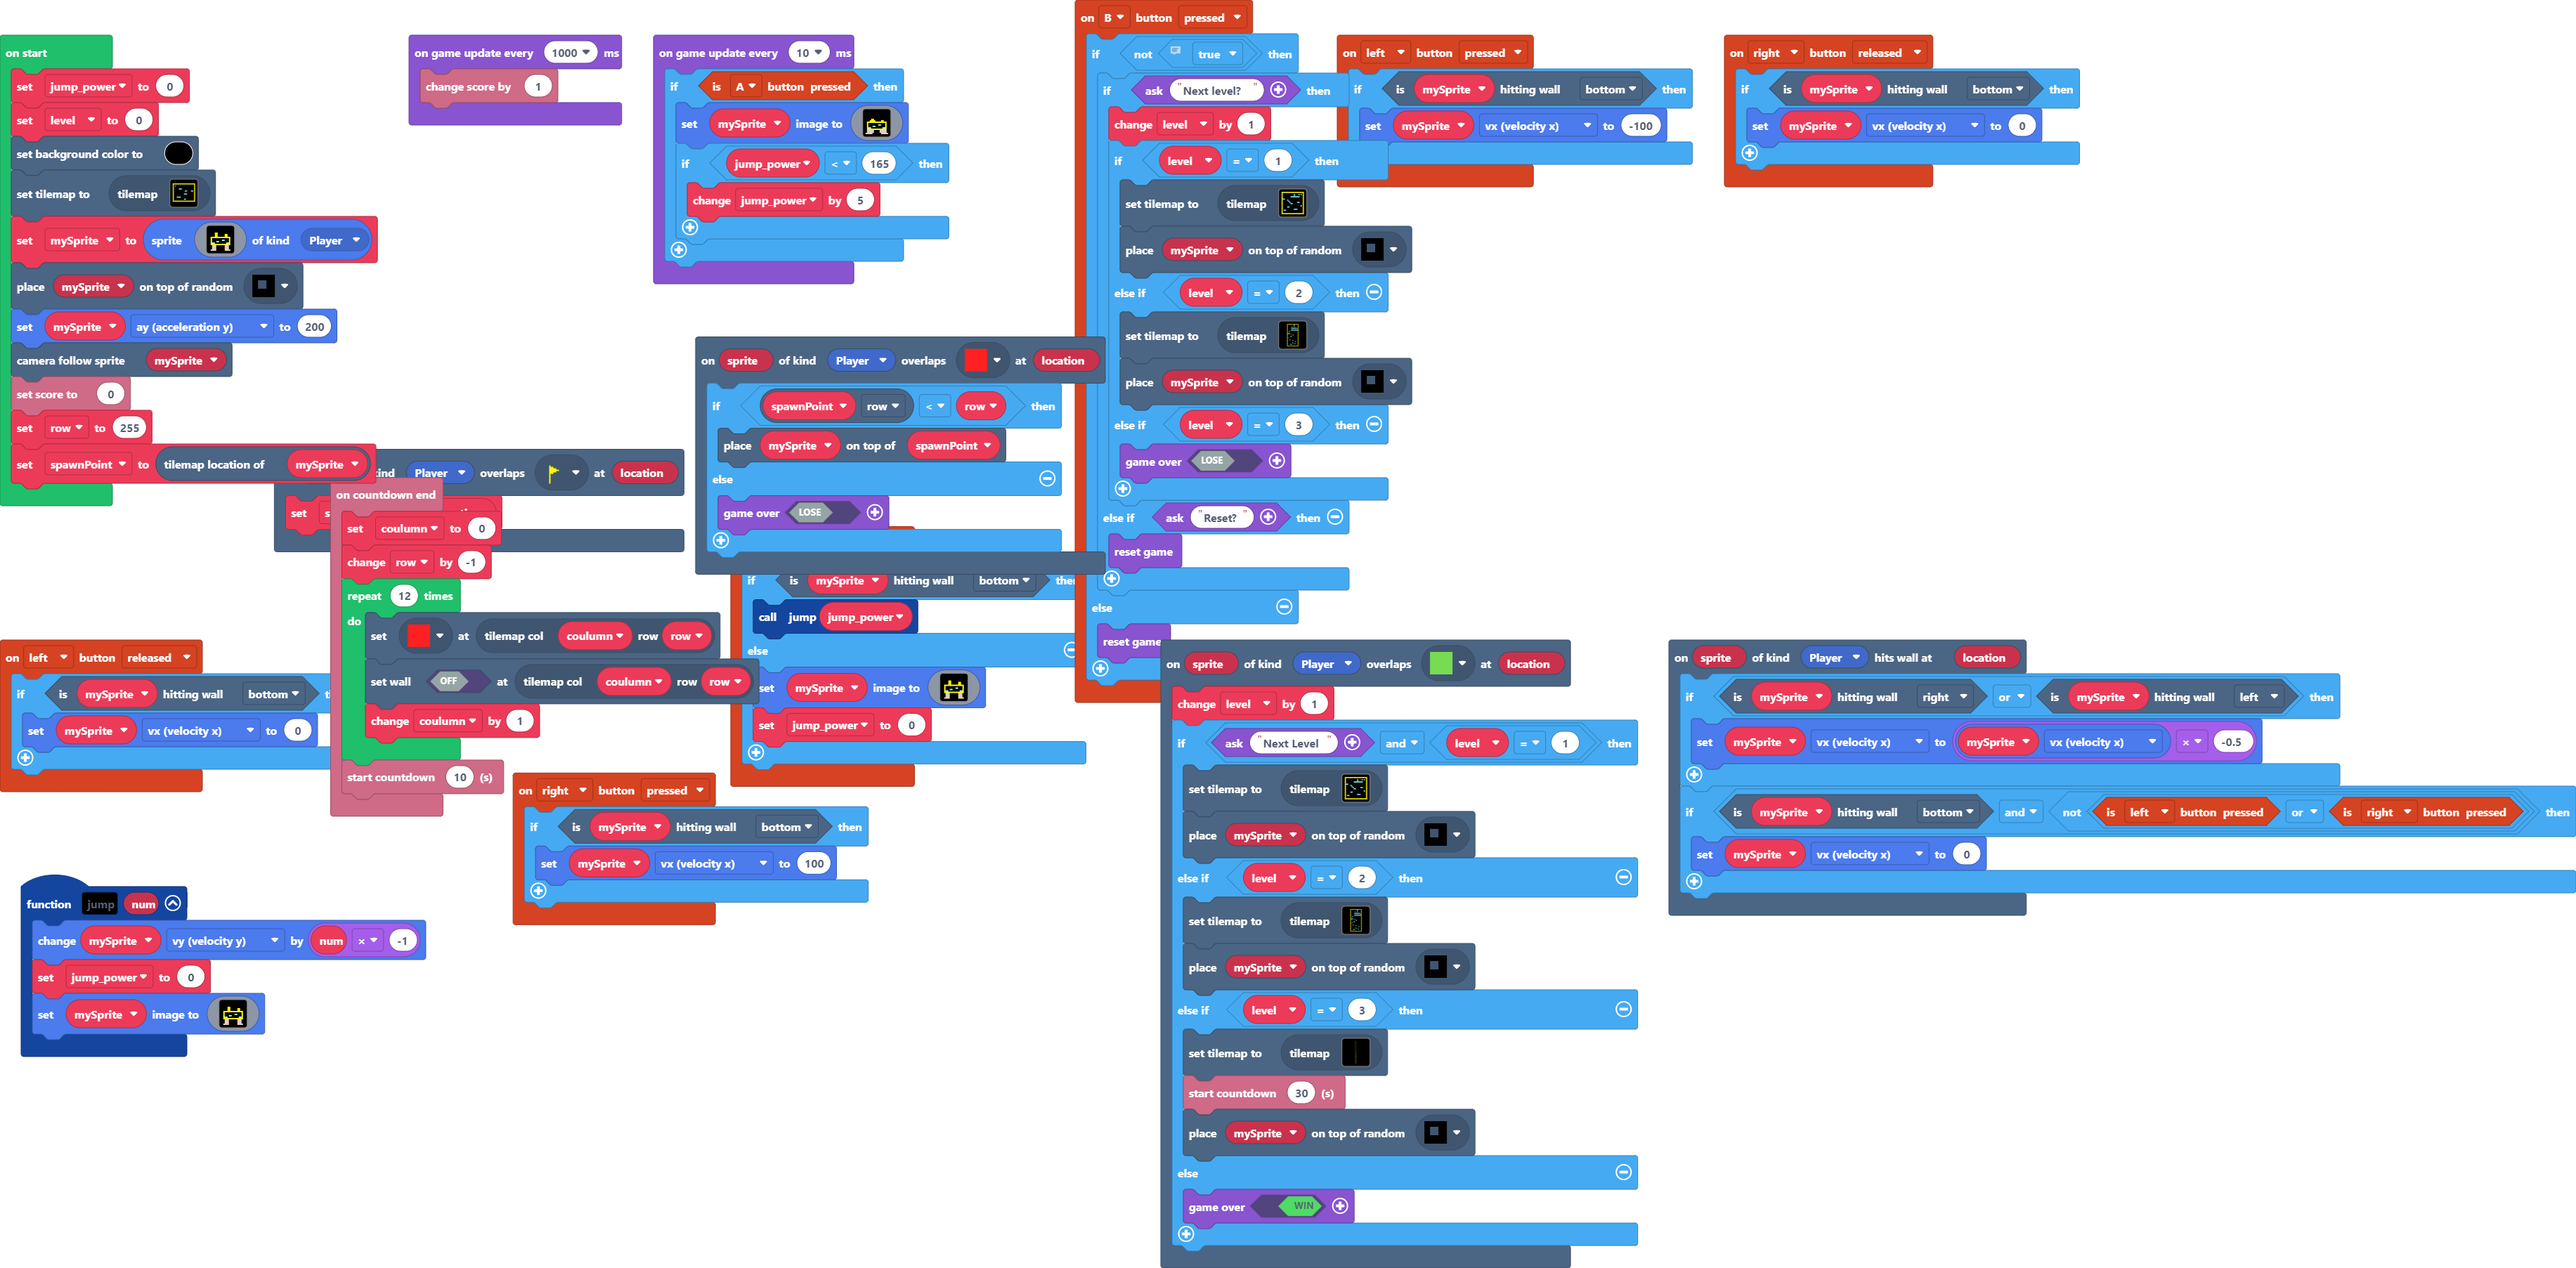
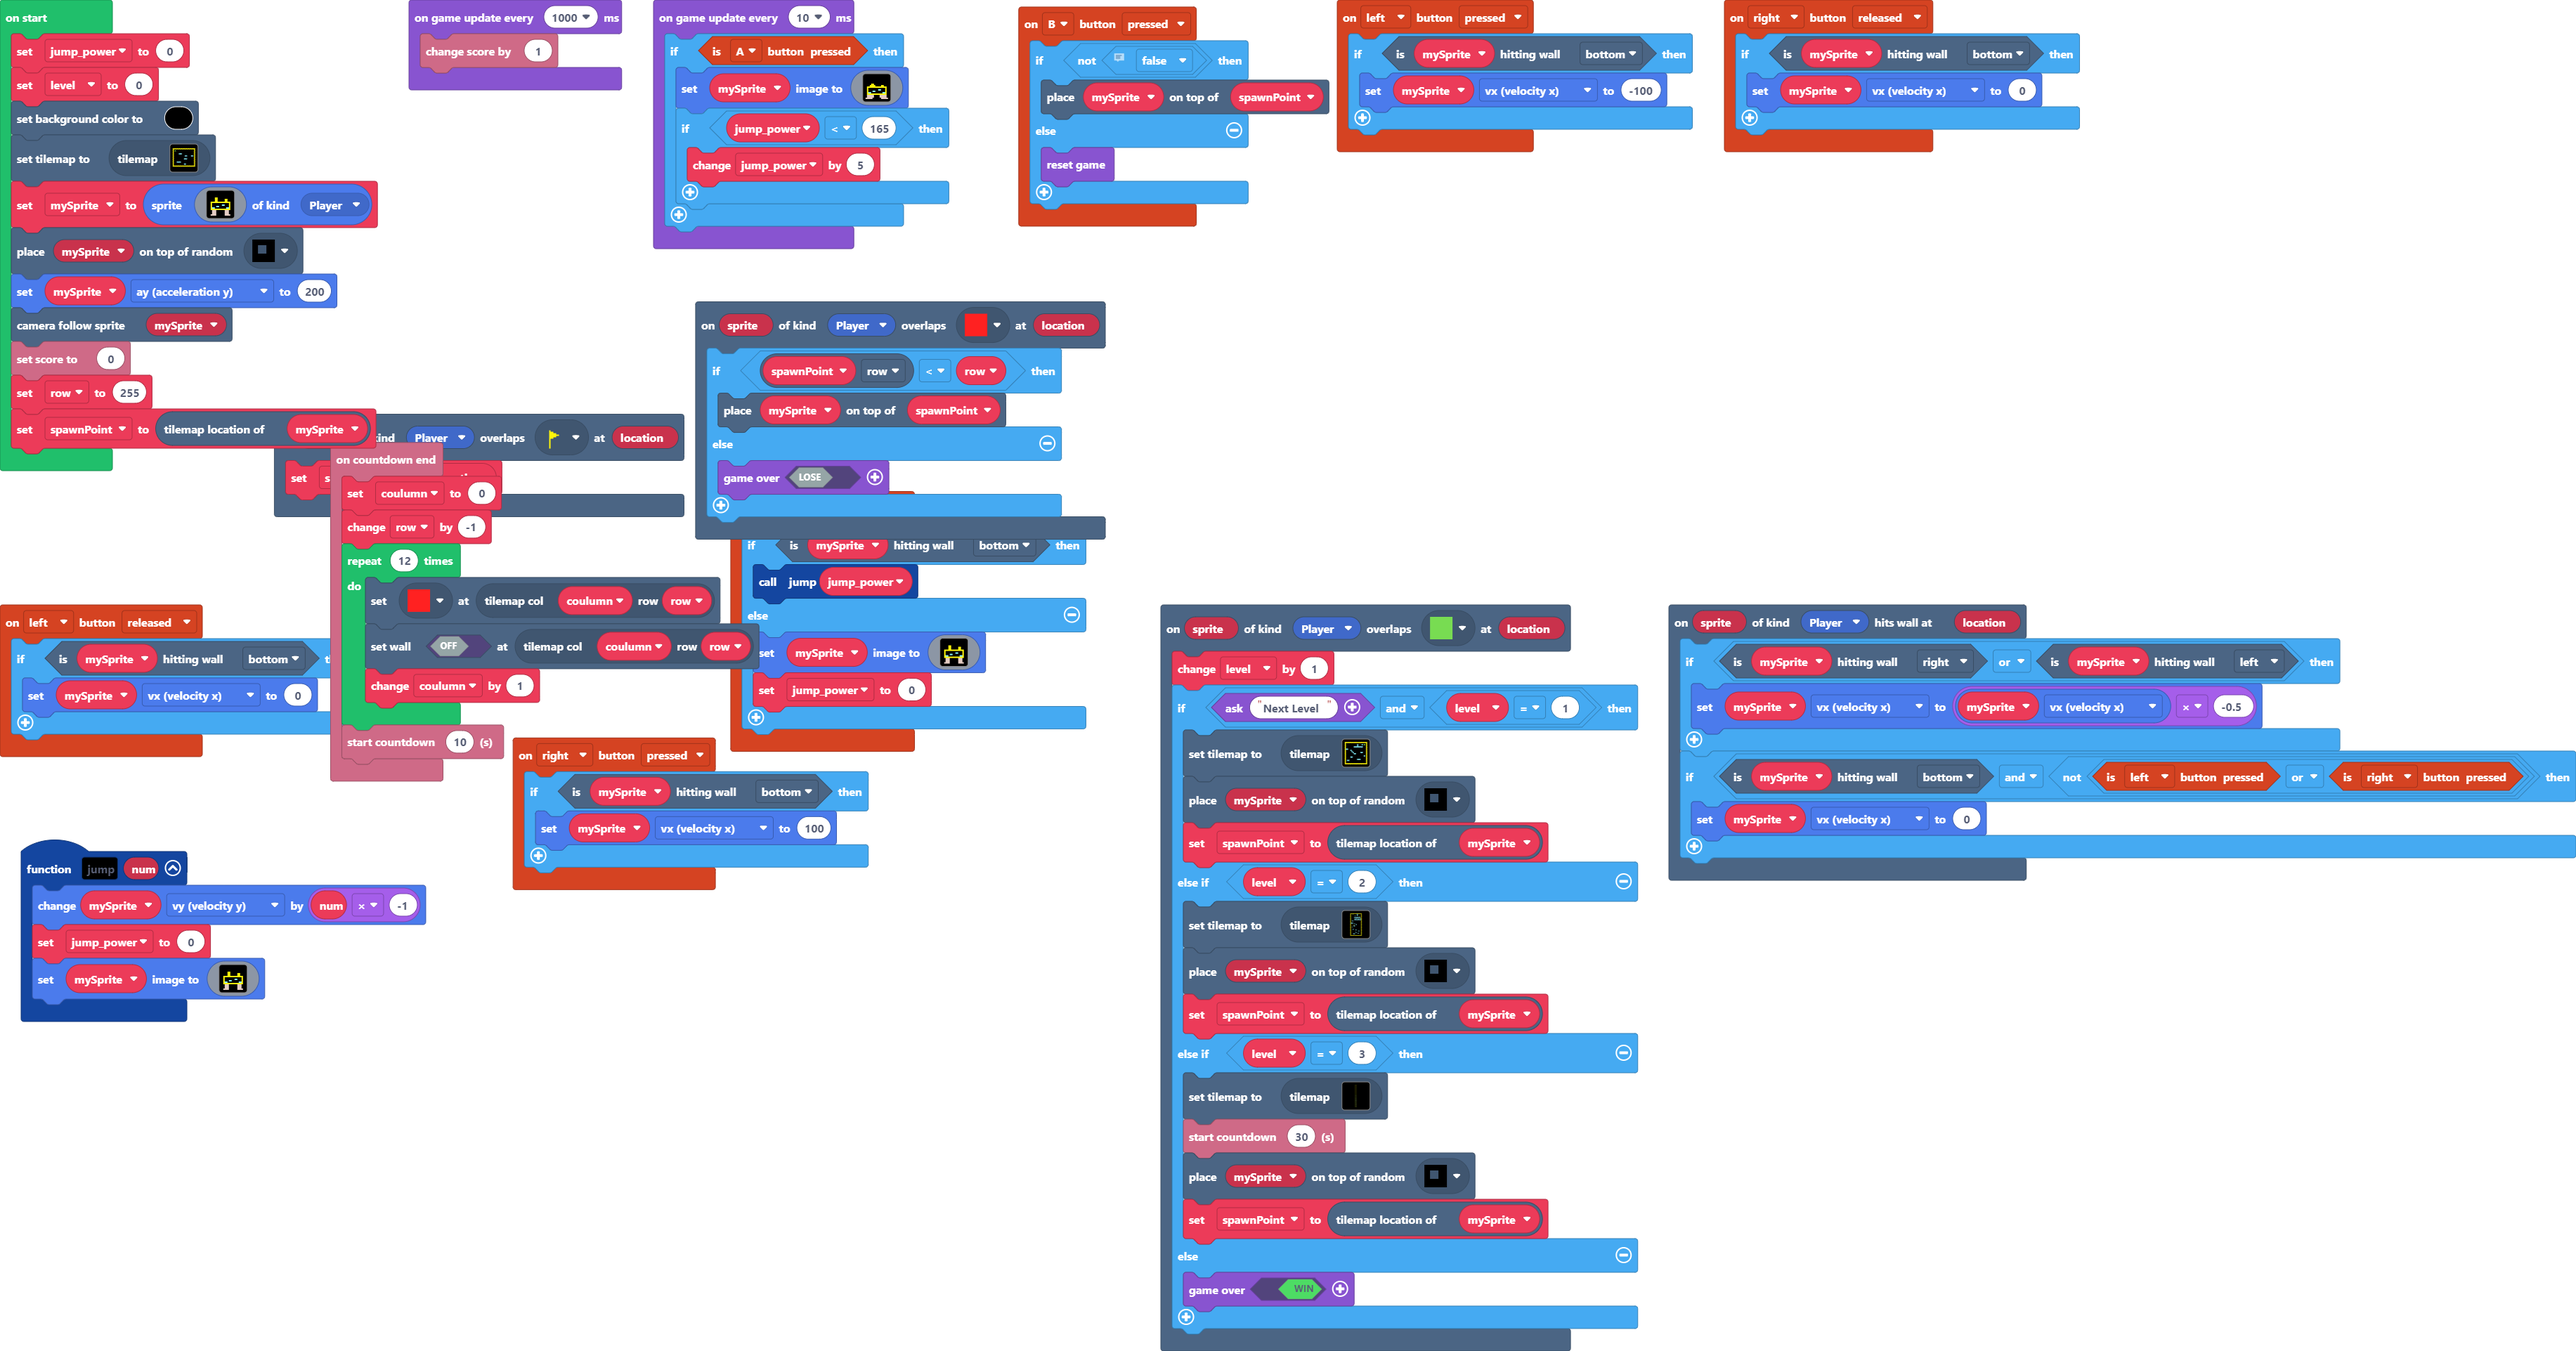
Update main.blocks, main.ts, tilemap.g.jres, tilemap.g.ts

diff --git a/tilemap.g.ts b/tilemap.g.ts
@@ -267,49 +267,6 @@ namespace myTiles {
 2....................2
 2222222222222222222222
 `, [myTiles.transparency16,myTiles.tile1,myTiles.tile2,myTiles.tile3,myTiles.tile4,myTiles.tile5,myTiles.tile6,myTiles.tile7,myTiles.tile8,myTiles.tile9,myTiles.tile10,myTiles.tile11,myTiles.tile12], TileScale.Sixteen);
-            case "level0":
[1 lines of base64/hex data omitted]
-22222222222222222222
-2...........2......2
-2...........2......2
-2...........2......2
-2.......2...2......2
-2..................2
-2..................2
-2......2222222222..2
-2..........2.....2.2
-2.......2..2..2..2.2
-2.......2.....2....2
-2......2222222222222
-2..................2
-2..22..............2
-2..................2
-2..................2
-2..................2
-22222..............2
-2......2...........2
-2.........2........2
-2.........2........2
-2..................2
-2.....22...........2
-2..................2
-2..2...............2
-2..................2
-2..................2
-2..................2
-2...22.............2
-2........22........2
-2..................2
-2.............22...2
-2..................2
-2........2.........2
-2.........2........2
-2............22....2
-2....222...........2
-2..................2
-2..................2
-22222222222222222222
-`, [myTiles.transparency16,myTiles.tile1,myTiles.tile2,myTiles.tile3,myTiles.tile4,myTiles.tile5,myTiles.tile6,myTiles.tile7,myTiles.tile8,myTiles.tile9,myTiles.tile10,myTiles.tile11], TileScale.Sixteen);
             case "level15":
             case "level15":return tiles.createTilemap(hex`1000100000000000000000000000000000000000000000000000000000000000000000000000000000000000000000000000000000000000000000000000000000000000000000000000000000000000000000000000000000000000000000000000000000000000000000000000000000000000000000000000000000000000000000000000000000000000000000000000000000000000000000000000000000000000000000000000000000000000000000000000000000000000000000000000000000000000000000000000000000000000000000000000000000000000000000000000000000000000000000000000000000000000000000000000000000000000`, img`
 . . . . . . . . . . . . . . . . 
@@ -587,6 +544,49 @@ namespace myTiles {
 2..........2
 222222222222
 `, [myTiles.transparency16,myTiles.tile1,myTiles.tile2,myTiles.tile3,myTiles.tile4,myTiles.tile5,myTiles.tile6,myTiles.tile8,myTiles.tile9,myTiles.tile10,myTiles.tile11,myTiles.tile12], TileScale.Sixteen);
+            case "level0":
[1 lines of base64/hex data omitted]
+22222222222222222222
+2...........2......2
+2...........2......2
+2...........2......2
+2.......2...2......2
+2..................2
+2..................2
+2......2222222222..2
+2..........2.....2.2
+2.......2..2..2..2.2
+2.......2.....2....2
+2......2222222222222
+2..................2
+2..22..............2
+2..................2
+2..................2
+2..................2
+22222..............2
+2......2...........2
+2.........2........2
+2.........2........2
+2..................2
+2.....22...........2
+2..................2
+2..2...............2
+2..................2
+2..................2
+2..................2
+2...22.............2
+2........22........2
+2..................2
+2.............22...2
+2..................2
+2........2.........2
+2.........2........2
+2............22....2
+2....222...........2
+2..................2
+2..................2
+22222222222222222222
+`, [myTiles.transparency16,myTiles.tile1,myTiles.tile2,myTiles.tile3,myTiles.tile4,myTiles.tile5,myTiles.tile6,myTiles.tile7,myTiles.tile8,myTiles.tile9,myTiles.tile10,myTiles.tile11,myTiles.tile12], TileScale.Sixteen);
         }
         return null;
     })

diff --git a/main.ts b/main.ts
@@ -8,21 +8,8 @@ scene.onHitWall(SpriteKind.Player, function (sprite, location) {
 })
 controller.B.onEvent(ControllerButtonEvent.Pressed, function () {
     // True if testing levels false otherwise
-    if (!(true)) {
-        if (game.ask("Next level?")) {
-            level += 1
-            if (level == 1) {
-                tiles.setCurrentTilemap(tilemap`level5`)
-                tiles.placeOnRandomTile(mySprite, assets.tile`spawn block`)
-            } else if (level == 2) {
-                tiles.setCurrentTilemap(tilemap`level0`)
-                tiles.placeOnRandomTile(mySprite, assets.tile`spawn block`)
-            } else if (level == 3) {
-                game.over(false)
-            }
-        } else if (game.ask("Reset?")) {
-            game.reset()
-        }
+    if (!(false)) {
+        tiles.placeOnTile(mySprite, spawnPoint)
     } else {
         game.reset()
     }
@@ -32,13 +19,16 @@ scene.onOverlapTile(SpriteKind.Player, assets.tile`myTile4`, function (sprite, l
     if (game.ask("Next Level") && level == 1) {
         tiles.setCurrentTilemap(tilemap`level5`)
         tiles.placeOnRandomTile(mySprite, assets.tile`spawn block`)
+        spawnPoint = mySprite.tilemapLocation()
     } else if (level == 2) {
         tiles.setCurrentTilemap(tilemap`level0`)
         tiles.placeOnRandomTile(mySprite, assets.tile`spawn block`)
+        spawnPoint = mySprite.tilemapLocation()
     } else if (level == 3) {
         tiles.setCurrentTilemap(tilemap`level14`)
         info.startCountdown(30)
         tiles.placeOnRandomTile(mySprite, assets.tile`spawn block`)
+        spawnPoint = mySprite.tilemapLocation()
     } else {
         game.over(true)
     }
